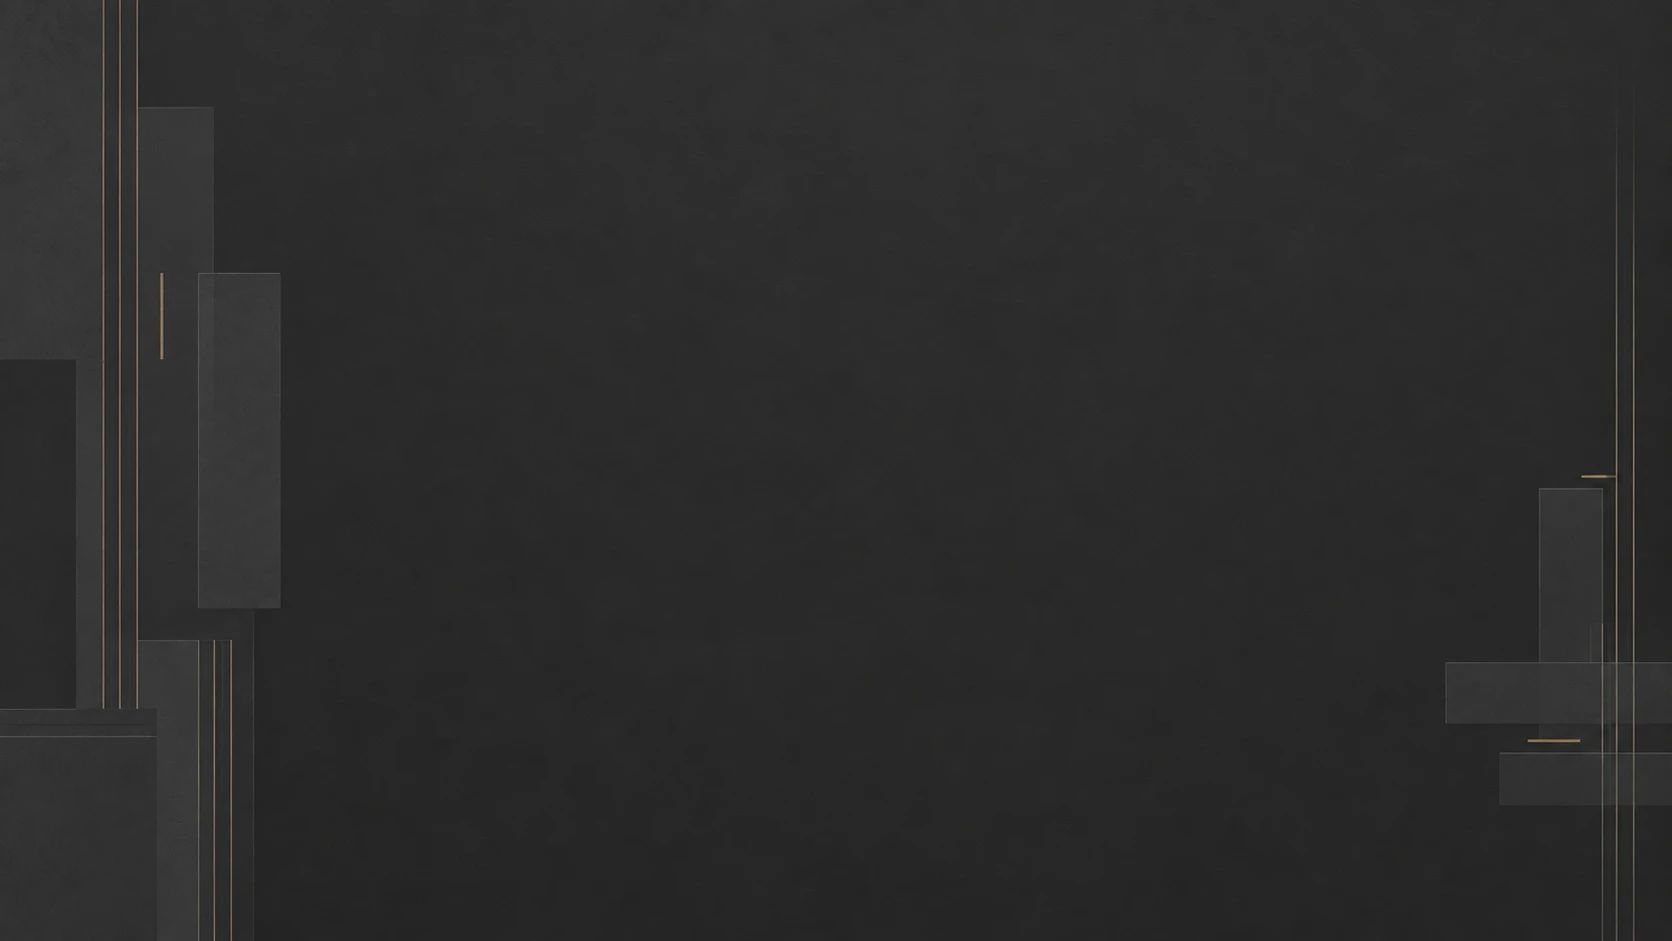
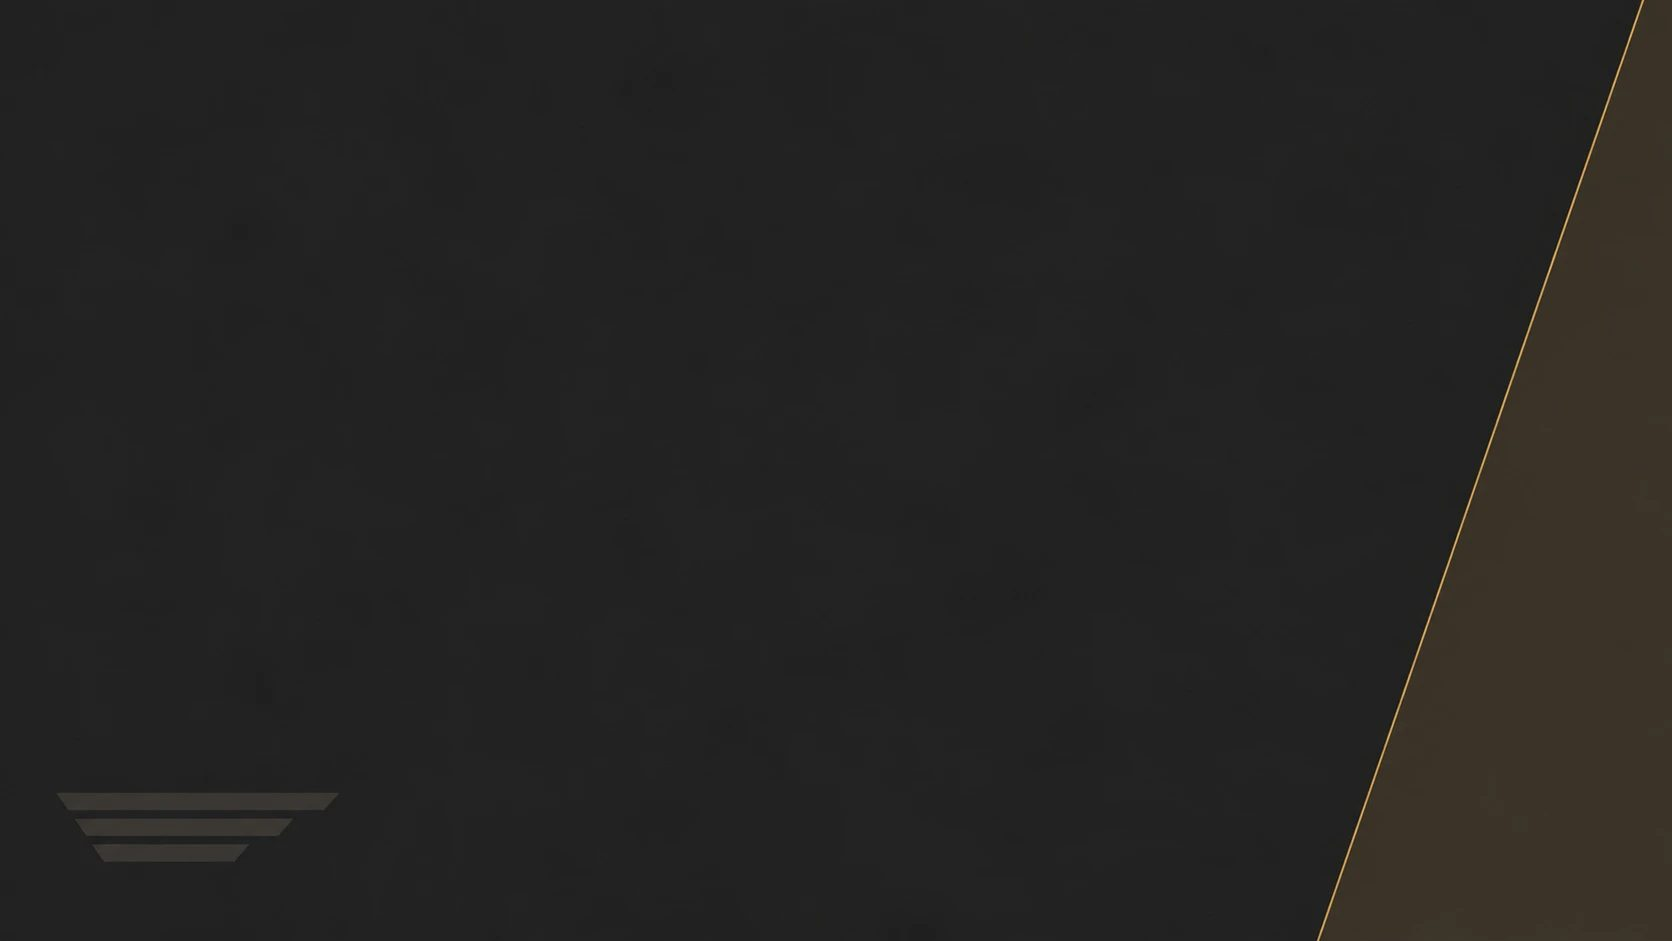
App twins: the new quiet renders (crown low-left, gold diagonal at the edge — the list's middle stays plain); «الموجز» handle stands down inside the legal section and returns with the roster

diff --git a/assets/app.css b/assets/app.css
@@ -46,9 +46,9 @@
   /* mobile taps: kill the 300ms delay + double-tap-zoom that can make taps feel dead */
   button,a,label,input,.row,.dz,.d-face.clickable,.ik-x,.ik-retry{touch-action:manipulation}
   *{-webkit-tap-highlight-color:rgba(219,168,117,.18)}
-  body{background:#17150F url("app-bg-dark.jpg?v=1") center/cover no-repeat fixed;color:var(--ink);
+  body{background:#17150F url("app-bg-dark.jpg?v=2") center/cover no-repeat fixed;color:var(--ink);
     font-family:var(--sans);min-height:100vh;-webkit-font-smoothing:antialiased}
-  html[data-theme="light"] body{background:#F4EFE4 url("app-bg-light.jpg?v=1") center/cover no-repeat fixed}
+  html[data-theme="light"] body{background:#F4EFE4 url("app-bg-light.jpg?v=2") center/cover no-repeat fixed}
   /* the login's diamond, a whisper — fixed behind all content, masked so it fades away from the top.
      Cards are opaque (--card) so they float clean over it → the spirit shows only in the gaps. */
   /* ONE faint diamond frame — a thin rail in the left+right gutters only, cleared out of the centre

diff --git a/assets/app.js b/assets/app.js
@@ -713,6 +713,10 @@ function setLaw(on){
   LAWMODE=!!on; _lawBatch=null; LAW_FILTER='all'; lsReset();   // enter the legal section on "All"
   const b=$('#blaw'); if(b)b.classList.toggle('on',LAWMODE);
   { const bs=$('#bsel'); if(bs) bs.hidden=LAWMODE; }
+  // «الموجز» is the roster's greeting — the legal section shows neither the brief nor its reopen handle
+  { const st=$('#brief-strip');
+    if(LAWMODE){ BRIEF._strip = BRIEF.on || !!(st&&!st.hidden); briefFold(); if(st) st.hidden=true; }
+    else if(BRIEF._strip){ briefStrip(true); BRIEF._strip=false; } }
   const q=$('#q'); if(q){ q.placeholder=LAWMODE?t('law_ph'):t('ph'); q.value=''; }
   $('#filters').innerHTML=''; $('#count').innerHTML='';
   _fOpen=false; paintFilters(_rItems||[]);   // the drawer belongs to the employee page; the legal section has its own chips

diff --git a/index.html b/index.html
@@ -11,7 +11,7 @@
   filter wall. Backend = the reused Supabase stack + the search_employees() RPC.
   (Design north star: V2.0/_guide/V2-RESEARCH.md)
 -->
-<link rel="stylesheet" href="assets/app.css?v=162">
+<link rel="stylesheet" href="assets/app.css?v=163">
 </head>
 <body>
 
@@ -152,6 +152,6 @@
 <script src="assets/vendor.js?v=1"></script>
 <!-- pdf.js — rasterizes a PDF passport/visa scan into a printable image for the dossier -->
 <!-- pdf.js is lazy-loaded on first PDF need (ensurePdfjs in app.js) -->
-<script src="assets/app.js?v=307"></script>
+<script src="assets/app.js?v=308"></script>
 </body>
 </html>
